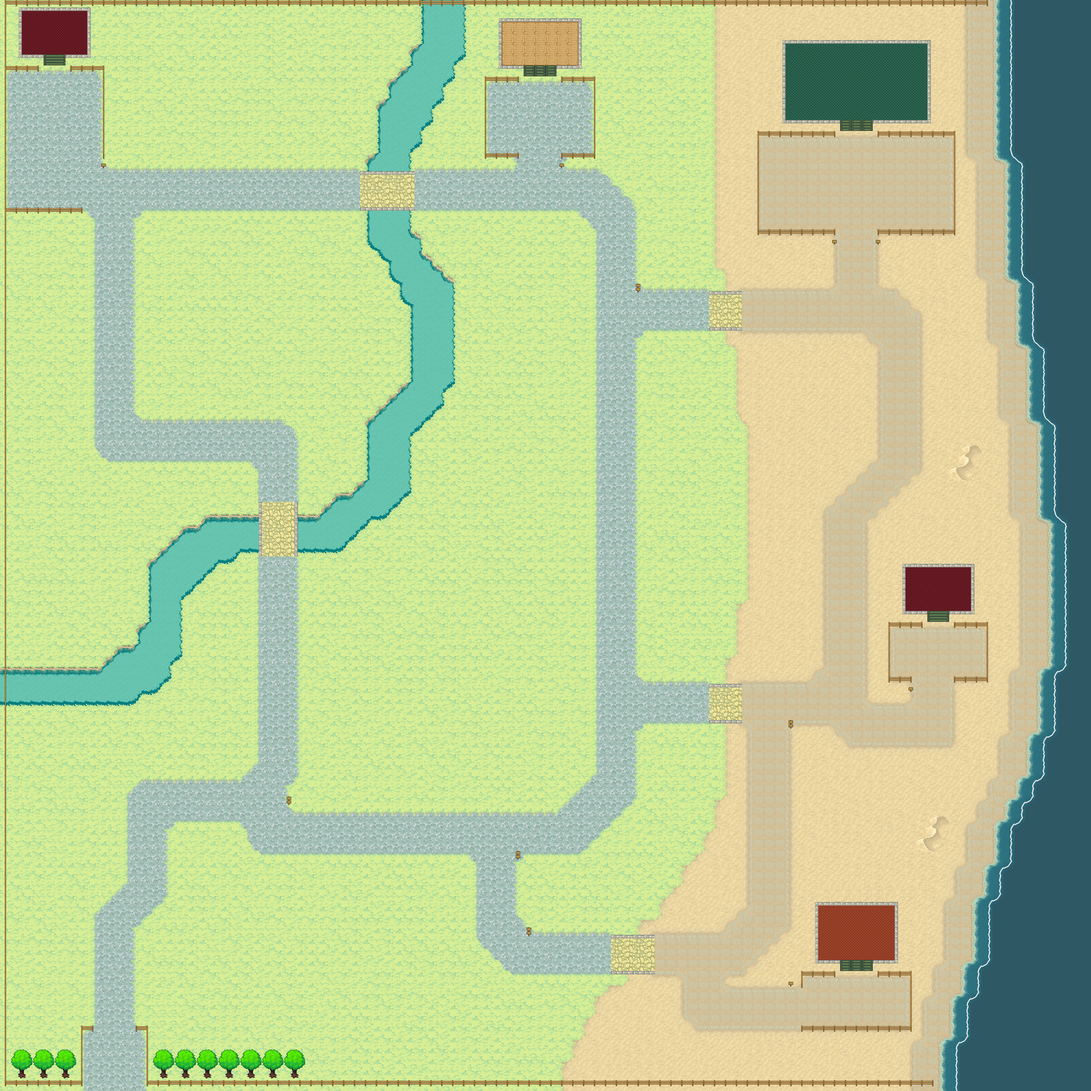
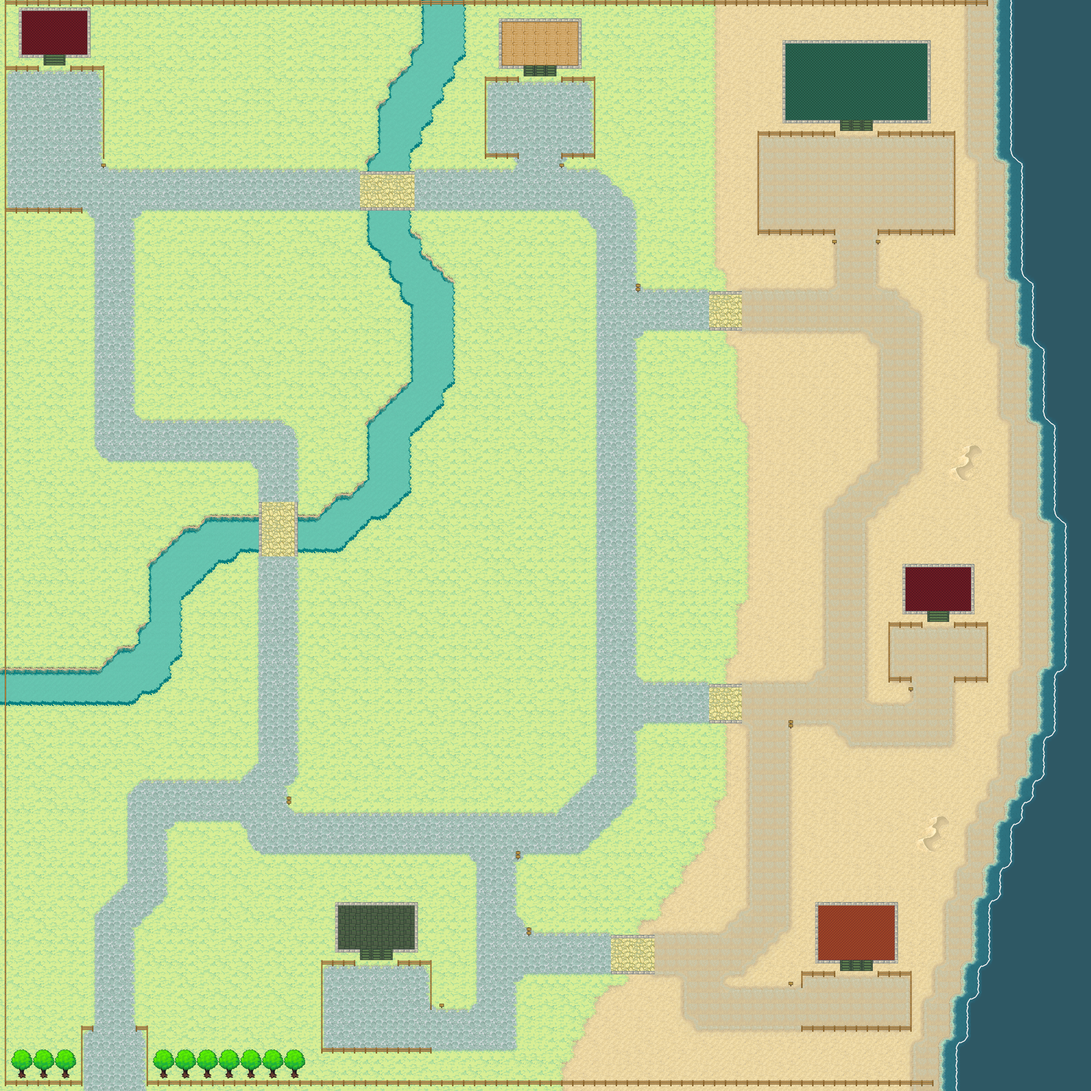
- added the debug_data to the gitingnore
- ensured the debug_data get created/cleared in code
- added a log file that logs the construction of the world

Changed region(s): [[0.2812, 0.8125, 0.5, 0.9688]]

diff --git a/code/simulator/World.java b/code/simulator/World.java
@@ -5,8 +5,11 @@ import java.awt.Graphics2D;
 import java.awt.geom.AffineTransform;
 import java.awt.image.BufferedImage;
 import java.io.File;
+import java.io.FileNotFoundException;
 import java.io.FileReader;
 import java.io.IOException;
+import java.io.PrintStream;
+import java.io.PrintWriter;
 import java.util.ArrayList;
 import java.util.HashMap;
 import java.util.HashSet;
@@ -89,6 +92,27 @@ public class World {
 		toRemove = new LinkedList<>();
 		buildingMap = new HashMap<>();
 
+		PrintStream oldStream;
+		{
+			PrintStream debugTxt;
+			File debugInfo = new File("debug_data/");
+			if (debugInfo.exists() == false)
+				debugInfo.mkdir();
+			
+			for (File file : debugInfo.listFiles())
+				file.delete();
+			
+			try {
+				debugTxt = new PrintStream(new File("debug_data/log.txt"));
+			} catch (FileNotFoundException e) {
+				System.out.println("log could not be created");
+				return;
+			}
+			System.out.println("starting world creation");
+			oldStream = System.out;
+			System.setOut(debugTxt);
+		}
+		
 		boolean[][] collisionInfo = null;
 		{
 			// ATRIBUTEN, moeten worden aangemaakt boven constructor ofcourse..
@@ -290,13 +314,14 @@ public class World {
 					graph = new ArrayList<>(nodeCount);
 
 					positionToNodeMap = new HashMap<>(nodeCount);
-
+					
 					for (int y = 0; y < collisionInfo.length; y++)
 						for (int x = 0; x < collisionInfo[0].length; x++)
-							if (collisionInfo[y][x] == false) {
+							if (collisionInfo[x][y] == false) {
 								Node n = new Node(x, y);
 								graph.add(n);
 								positionToNodeMap.put(new Position(x, y), n);
+								//System.out.println((positionToNodeMap.get(new Position(x,y)) == null) ? "node could not be reovered" : "node could be recovereded");
 							}
 
 					for (Node n : graph) { // adding the edges to the node TODO
@@ -372,7 +397,7 @@ public class World {
 								c = outGraph;
 							
 							graphics.setColor(c);
-							graphics.fillRect(n.Y*32, n.X*32, 32, 32);
+							graphics.fillRect(n.X*32, n.Y*32, 32, 32);
 						}
 						
 						try {
@@ -430,16 +455,25 @@ public class World {
 						
 						Queue<Node> queue = new LinkedList<>();
 						HashSet<Node> visited = new HashSet<Node>();
+						HashMap<Position, Integer> nodeToDistanceMap = new HashMap<>(graph.size());
 						
 						for (Tile tile : pair.entances) {
 							Node n = positionToNodeMap.get(new Position(tile.X, tile.Y));
 							queue.add(n);
-							System.out.println("tile(" + tile.X + ", " + tile.Y + ") " + (n != null));
+							nodeToDistanceMap.put(new Position(tile.X, tile.Y), -1);
+							System.out.println("tile(" + tile.X + ", " + tile.Y + ") " + ((n == null) ? "node is null" : "node was found")+
+									((collisionInfo[tile.X][tile.Y]) ? ", there should be no node" : ", there should be a node"));
 						}
 
+						int visitedNodeCount = 0;
+						int highestDistance = 0;
 						while (queue.isEmpty() == false) {
 							Node node = queue.poll();
-							System.out.println("node == null : " + node != null);
+							visitedNodeCount++;
+							int newNodeDistance = nodeToDistanceMap.get(new Position(node.X, node.Y)) + 1;
+							if (newNodeDistance > highestDistance)
+								highestDistance = newNodeDistance;
+							//System.out.println(((node == null) ? "node is null" : "node was found"));
 							if (node == null)
 								continue;
 							for (int i = 0; i < node.straitEdges.length; i++) {
@@ -448,14 +482,45 @@ public class World {
 								if (visited.contains(node.straitEdges[i]) == true)
 									continue;
 								visited.add(node.straitEdges[i]);
+								nodeToDistanceMap.put(new Position(node.straitEdges[i].X, node.straitEdges[i].Y), newNodeDistance);
 								queue.add(node.straitEdges[i]);
 								tiles[node.straitEdges[i].X][node.straitEdges[i].Y].addDirection(pair.typeID,
 										tiles[node.X][node.Y]);
 							}
 						}
+						System.out.println("direction generation visitedNodeCount : " + visitedNodeCount);
+						{/// Creating a debug image
+							BufferedImage debugImage = new BufferedImage(mapImage.getWidth(), mapImage.getHeight(), BufferedImage.TYPE_INT_ARGB);
+							Graphics2D graphics = (Graphics2D)debugImage.getGraphics();
+							graphics.drawImage(mapImage, 0, 0, null);
+							
+							
+							for (Node n : graph)
+							{
+								int color = 255-(int)(255/(double)highestDistance*nodeToDistanceMap.get(new Position(n.X, n.Y)));
+								System.out.println("("+n.X+", " + n.Y +") " + color);
+								
+								graphics.setColor(new Color(color, color, color, 128));
+								graphics.fillRect(n.X*32, n.Y*32, 32, 32);
+								graphics.setColor(Color.BLACK);
+								graphics.drawString(nodeToDistanceMap.get(new Position(n.X, n.Y)).toString(), n.X*32+16, n.Y*32+16);
+							}
+							
+							try {
+								ImageIO.write(debugImage, "png", new File("debug_data/pathfinding_debug_image" + pair.typeID + "_" + pair.name+".png"));
+							} catch (IOException e) {
+								// TODO Auto-generated catch block
+								e.printStackTrace();
+							}
+						}
 					}
 				}
 			}
+		}
+		
+		{
+			System.setOut(oldStream);
+			System.out.println("World was created");
 		}
 
 	}

diff --git a/code/simulator/__Main.java b/code/simulator/__Main.java
@@ -42,7 +42,7 @@ public class __Main extends JPanel{
 		//map.put(agenda.getStages().get(2), 11);
 		map.put(agenda.getStages().get(3), 14);
 		map.put(agenda.getStages().get(4), 17);
-	//	map.put(agenda.getStages().get(5), 20);
+		map.put(agenda.getStages().get(5), 20);
 		map.put(agenda.getStages().get(6), 23);
 		map.put(agenda.getStages().get(7), 26);
 		
@@ -50,14 +50,15 @@ public class __Main extends JPanel{
 		World w = new World(agenda, map, "Endmap.json", "Tiled2.png");
 		System.out.println("world was constructed");
 		
-		new Visitor(ImageIO.read(new File("code/agents/1.png")), w.getTileAt(50, 50), new Point2D.Double(50, 50), 1.0f);
+		
+		new Visitor(ImageIO.read(new File("code/agents/1.png")), w.getTileAt(8, 16), new Point2D.Double(8, 16), 1.0f);
 	}
 	
 	public void paintComponent(Graphics g)
 	{
 		Graphics2D g2 = (Graphics2D)g;
-		System.out.println("paintComponent");
-		World.instance.inclusiveUpdate(g2);
+		//System.out.println("paintComponent");
+		//World.instance.inclusiveUpdate(g2);
 		AffineTransform transform = new AffineTransform();
 		float scaleX = getWidth()/(float)(100*32);
 		float scaleY = getHeight()/(float)(100*32);
@@ -73,7 +74,7 @@ public class __Main extends JPanel{
 		frame.setVisible(true);
 		while (true)
 		{
-			//frame.repaint();
+			frame.repaint();
 			Thread.sleep(100);
 		}
 	}

diff --git a/code/simulator/Agent.java b/code/simulator/Agent.java
@@ -44,9 +44,8 @@ abstract class Agent implements Updateable, Drawable {
 	
 	void move()
 	{
-		currentPosition.setLocation(currentPosition.getX(), currentPosition.getY()+0.1f*World.instance.getDeltaTime());
-	
-		/*
+		System.out.println("current location: " + currentPosition);
+		
 		// we don't need to go anywhere so we can just return
 		if (destenation == NO_DESTENATION)
 			return;
@@ -89,7 +88,6 @@ abstract class Agent implements Updateable, Drawable {
 			}
 			
 		}
-		*/
 	}
 	
 	@Override

diff --git a/code/simulator/Stage.java b/code/simulator/Stage.java
@@ -42,7 +42,7 @@ class Stage extends Building implements Updateable{
 
 	@Override
 	public void update() {
-		final int NO_PERFORMANCE = -1;
+		/*final int NO_PERFORMANCE = -1;
 		int lastPerformance = NO_PERFORMANCE, currentPerformance = NO_PERFORMANCE;
 		
 		System.out.println(new agenda.Time(World.instance.getWorldTime()/60));
@@ -84,7 +84,7 @@ class Stage extends Building implements Updateable{
 			
 			System.out.println(message);
 			int a = 0;
-		}
+		}*/
 	}
 
 }

diff --git a/code/simulator/Visitor.java b/code/simulator/Visitor.java
@@ -4,9 +4,10 @@ import java.awt.Image;
 import java.awt.geom.Point2D;
 
 public class Visitor extends Agent {
-
+	
 	public Visitor(Image image, Tile tile, Point2D point, float speed) {
 		super(image, tile, point, speed);
+		setDestination(World.instance.getPathID(World.instance.agenda.getPerformances().get(0).getStage().getName()));
 	}
 
 	@Override
